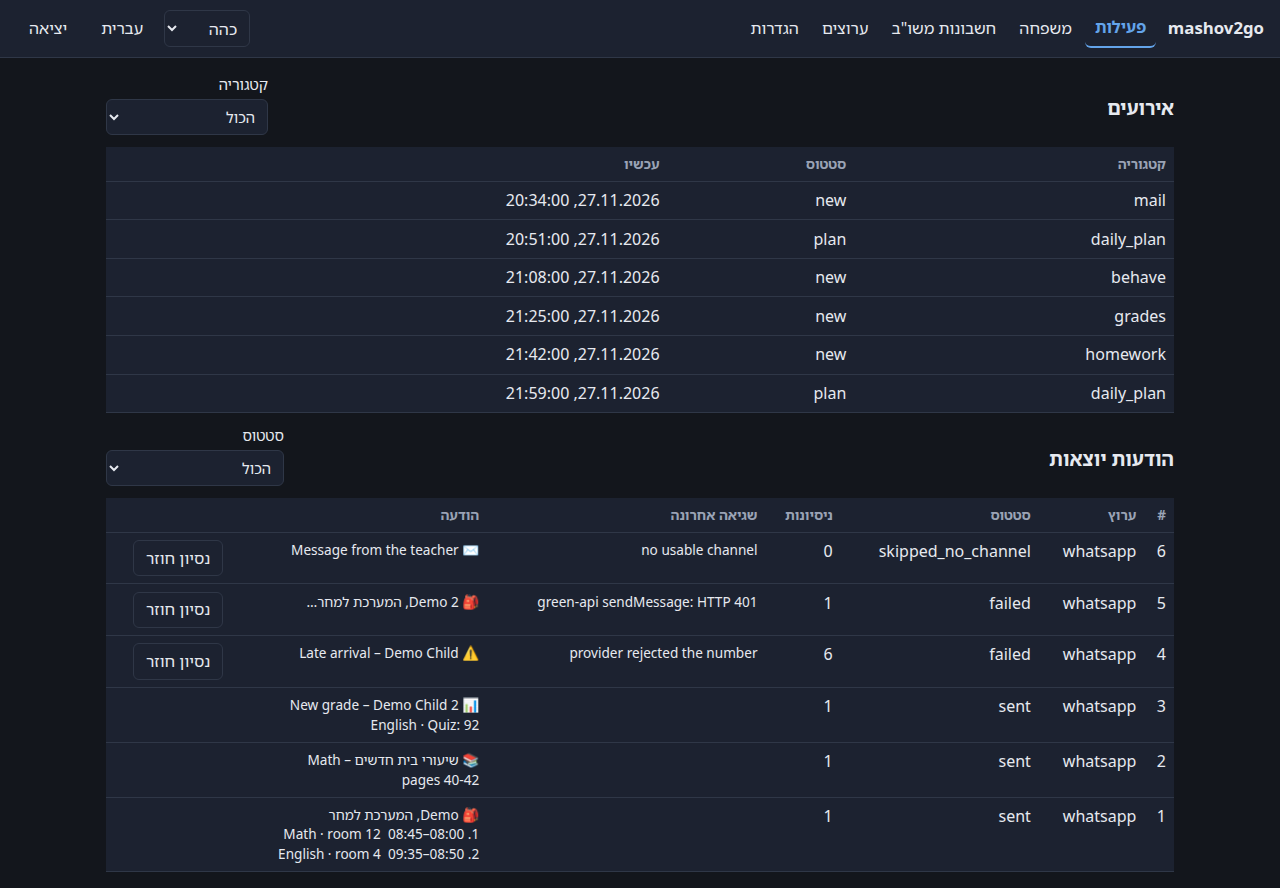
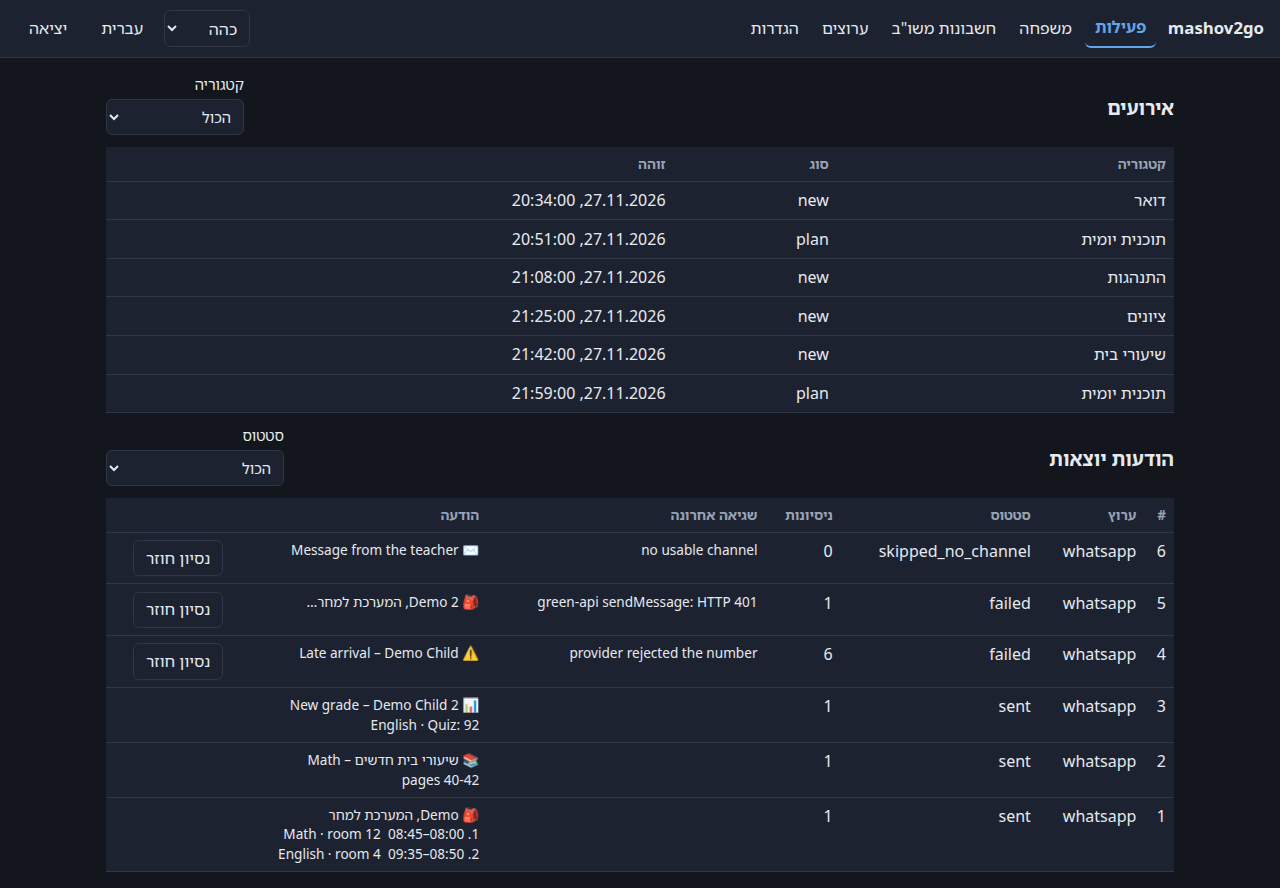
translate settings labels, categories and recipients; fix Activity columns; refresh screenshots

diff --git a/web/src/i18n.tsx b/web/src/i18n.tsx
@@ -122,6 +122,33 @@ const S = {
   passwordChanged: ['Password changed. Other sessions were signed out.', 'הסיסמה שונתה. שאר ההתחברויות נותקו.'],
   noSchool: ['No school day to plan', 'אין יום לימודים לתכנון'],
   languageField: ['Language', 'שפה'],
+  kind: ['Kind', 'סוג'],
+  whenDetected: ['Detected', 'זוהה'],
+  recipientChild: ['Child', 'ילד/ה'],
+  recipientParents: ['Parents', 'הורים'],
+  recipientBoth: ['Both', 'שניהם'],
+  recipientOff: ['Off', 'כבוי'],
+  catDailyPlan: ['Daily plan', 'תוכנית יומית'],
+  catHomework: ['Homework', 'שיעורי בית'],
+  catTimetableChange: ['Timetable change', 'שינוי במערכת'],
+  catGrades: ['Grades', 'ציונים'],
+  catBehave: ['Behaviour', 'התנהגות'],
+  catMaakav: ['Teacher notes', 'מעקב מורה'],
+  catMail: ['Mail', 'דואר'],
+  catSchoolNotice: ['School notice', 'הודעת בית ספר'],
+  catForms: ['Forms', 'טפסים'],
+  catSystemAuth: ['Login problems', 'בעיות התחברות'],
+  setTimezone: ['Timezone', 'אזור זמן'],
+  setPlanDefaultTime: ['Default plan time', 'שעת תוכנית ברירת מחדל'],
+  setActiveHours: ['Active hours', 'שעות פעילות'],
+  setFastSync: ['Fast sync interval', 'מרווח סנכרון מהיר'],
+  setFullSync: ['Full sync interval', 'מרווח סנכרון מלא'],
+  setNightSync: ['Night sync interval', 'מרווח סנכרון לילה'],
+  setMinGap: ['Minimum gap between Mashov requests', 'מרווח מינימלי בין בקשות למשו"ב'],
+  setRetention: ['Events retention', 'שמירת אירועים'],
+  setProfile: ['Mashov app profile', 'פרופיל אפליקציית משו"ב'],
+  setKeepUnread: ['Keep mail unread', 'שמירת דואר כלא נקרא'],
+  setShabbat: ['Shabbat mode', 'מצב שבת'],
   linkThis: ['Link', 'קישור'],
 } as const;
 

diff --git a/web/src/pages/SettingsPage.tsx b/web/src/pages/SettingsPage.tsx
@@ -48,16 +48,16 @@ function General() {
     <form className="card stack" onSubmit={save}>
       <h2>{t('generalTitle')}</h2>
       <Flash state={flash} />
-      {text('timezone', 'Timezone')}
-      {text('planDefaultTime', 'Default plan time')}
-      {text('activeHours', 'Active hours')}
-      {text('syncFastInterval', 'Fast sync interval')}
-      {text('syncFullInterval', 'Full sync interval')}
-      {text('syncNightInterval', 'Night sync interval')}
-      {text('mashovMinGap', 'Minimum gap between Mashov requests')}
-      {text('eventsRetention', 'Events retention')}
+      {text('timezone', t('setTimezone'))}
+      {text('planDefaultTime', t('setPlanDefaultTime'))}
+      {text('activeHours', t('setActiveHours'))}
+      {text('syncFastInterval', t('setFastSync'))}
+      {text('syncFullInterval', t('setFullSync'))}
+      {text('syncNightInterval', t('setNightSync'))}
+      {text('mashovMinGap', t('setMinGap'))}
+      {text('eventsRetention', t('setRetention'))}
       <label>
-        Mashov profile
+        {t('setProfile')}
         <select value={s.mashovProfile} onChange={(e) => setS({ ...s, mashovProfile: e.target.value })}>
           <option value="android">android</option>
           <option value="web">web</option>
@@ -65,11 +65,11 @@ function General() {
       </label>
       <label className="check">
         <input type="checkbox" checked={s.preserveUnread} onChange={(e) => setS({ ...s, preserveUnread: e.target.checked })} />
-        Keep mail unread
+        {t('setKeepUnread')}
       </label>
       <label className="check">
         <input type="checkbox" checked={s.shabbatMode} onChange={(e) => setS({ ...s, shabbatMode: e.target.checked })} />
-        Shabbat mode
+        {t('setShabbat')}
       </label>
       <div>
         <button type="submit" className="primary">

diff --git a/web/src/pages/Family.tsx b/web/src/pages/Family.tsx
@@ -3,7 +3,9 @@ import {
   api,
   ApiError,
   CATEGORIES,
+  CATEGORY_KEY,
   RECIPIENTS,
+  RECIPIENT_KEY,
   type Account,
   type Member,
   type Plan,
@@ -432,12 +434,12 @@ function Recipients({ member, flash }: { member: Member; flash: FlashState }) {
         <tbody>
           {CATEGORIES.map((c) => (
             <tr key={c}>
-              <td>{c}</td>
+              <td>{t(CATEGORY_KEY[c])}</td>
               <td>
                 <select value={values[c]} onChange={(e) => void save(c, e.target.value)}>
                   {RECIPIENTS.map((r) => (
                     <option key={r} value={r}>
-                      {r}
+                      {t(RECIPIENT_KEY[r])}
                     </option>
                   ))}
                 </select>
@@ -545,7 +547,7 @@ function Mutes({ parent, children, flash }: { parent: Member; children: Member[]
               <th />
               {CATEGORIES.map((c) => (
                 <th key={c} className="small">
-                  {c}
+                  {t(CATEGORY_KEY[c])}
                 </th>
               ))}
             </tr>
@@ -558,7 +560,7 @@ function Mutes({ parent, children, flash }: { parent: Member; children: Member[]
                   <td key={c}>
                     <input
                       type="checkbox"
-                      aria-label={`${k.name} ${c}`}
+                      aria-label={`${k.name} ${t(CATEGORY_KEY[c])}`}
                       checked={muted.has(`${k.id}|${c}`)}
                       onChange={() => void toggle(k.id, c)}
                     />

diff --git a/web/src/pages/Activity.tsx b/web/src/pages/Activity.tsx
@@ -1,5 +1,5 @@
 import { useCallback, useEffect, useState } from 'react';
-import { api, ApiError, CATEGORIES, type DeliveryRow, type EventRow } from '../api';
+import { api, ApiError, CATEGORIES, CATEGORY_KEY, type DeliveryRow, type EventRow } from '../api';
 import { useI18n } from '../i18n';
 import { useFlash, Flash } from './shared';
 
@@ -53,7 +53,7 @@ export function Activity() {
             <option value="">{t('allCategories')}</option>
             {CATEGORIES.map((c) => (
               <option key={c} value={c}>
-                {c}
+                {t(CATEGORY_KEY[c])}
               </option>
             ))}
           </select>
@@ -68,14 +68,14 @@ export function Activity() {
           <thead>
             <tr>
               <th>{t('category')}</th>
-              <th>{t('status')}</th>
-              <th>{t('secondsAgo')}</th>
+              <th>{t('kind')}</th>
+              <th>{t('whenDetected')}</th>
             </tr>
           </thead>
           <tbody>
             {events.map((e) => (
               <tr key={e.id}>
-                <td>{e.category}</td>
+                <td>{CATEGORY_KEY[e.category] ? t(CATEGORY_KEY[e.category]) : e.category}</td>
                 <td>{e.kind}</td>
                 <td>{new Date(e.detectedAt).toLocaleString()}</td>
               </tr>

diff --git a/web/src/api.ts b/web/src/api.ts
@@ -173,3 +173,25 @@ export const CATEGORIES = [
 ] as const;
 
 export const RECIPIENTS = ['child', 'parents', 'both', 'off'] as const;
+
+// Message category keys (CLAUDE.md §6.2) and recipient values map to these
+// translation keys; the raw keys are not shown to users.
+export const CATEGORY_KEY: Record<string, 'catDailyPlan' | 'catHomework' | 'catTimetableChange' | 'catGrades' | 'catBehave' | 'catMaakav' | 'catMail' | 'catSchoolNotice' | 'catForms' | 'catSystemAuth'> = {
+  daily_plan: 'catDailyPlan',
+  homework: 'catHomework',
+  timetable_change: 'catTimetableChange',
+  grades: 'catGrades',
+  behave: 'catBehave',
+  maakav: 'catMaakav',
+  mail: 'catMail',
+  school_notice: 'catSchoolNotice',
+  forms: 'catForms',
+  'system.auth': 'catSystemAuth',
+};
+
+export const RECIPIENT_KEY: Record<string, 'recipientChild' | 'recipientParents' | 'recipientBoth' | 'recipientOff'> = {
+  child: 'recipientChild',
+  parents: 'recipientParents',
+  both: 'recipientBoth',
+  off: 'recipientOff',
+};
